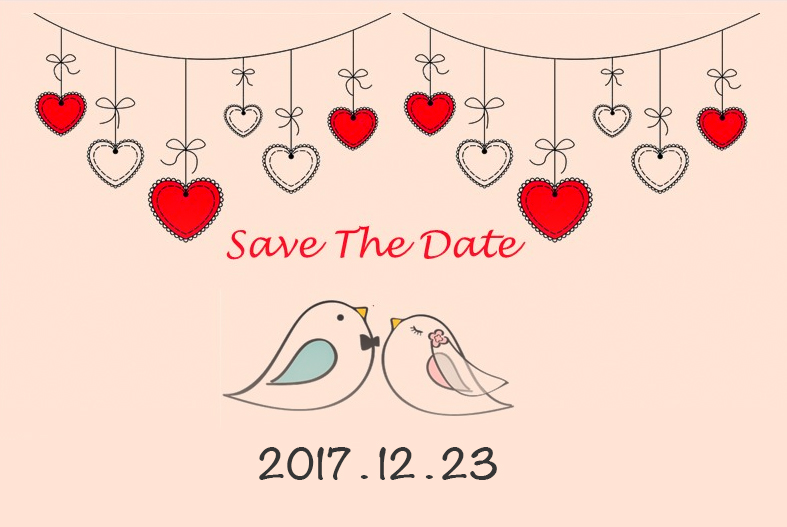
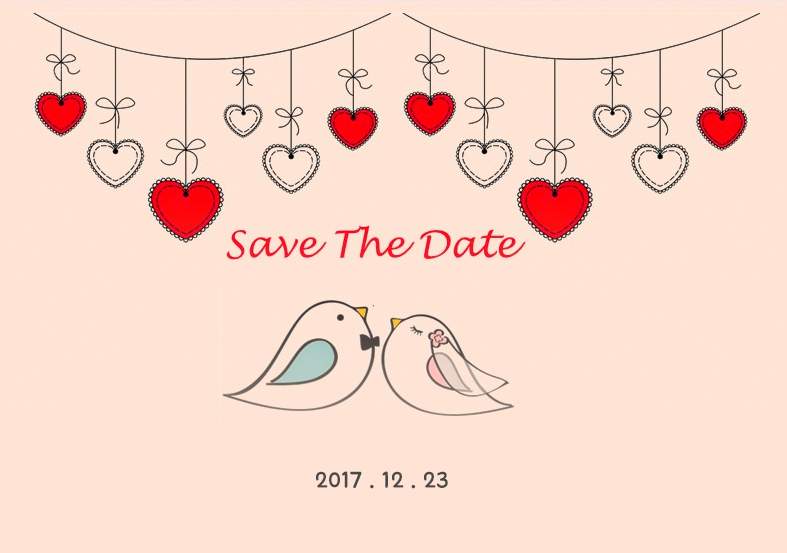
update

diff --git a/index.html b/index.html
@@ -28,8 +28,7 @@
 		<div id="heading" class="section">
 			<img src="images/invite.jpg" style="width: 100%;"/>
 			<div class="section-sm">
-				박규홍 신랑 &#x2665; 구수진 신부</br>
-				결혼을 축하해주세요.
+				박규홍 &#x2665; 구수진 결혼합니다.
 			</div>
 		</div>
 
@@ -74,10 +73,11 @@
 				<div class="invitation-context">
 					<p>받는 기쁨보다 주는 기쁨이 크다는 것을</p>
 					<p>알게 해준 사람을 만나 결혼합니다.</p>
-					<p>참석해 주셔서 축복해 주시면 감사하겠습니다.</p>
+					<p>저희 두사람의 새로운 출발을</p>
+					<p>축복해 주시면 감사하겠습니다.</p>
 				</div>
 				<div class="invitation-name">
-					<p>박정섭 &#183; 조영재의 차남 박규홍</p>
+					<p>박정섭 &#183; 조영재의 장남 박규홍</p>
 					<p>구탁본 &#183; 최은희의 차녀 구수진</p>
 				</div>
 			</div>
@@ -122,5 +122,6 @@
 		</script>
 		<script src="https://cdnjs.cloudflare.com/ajax/libs/popper.js/1.12.3/umd/popper.min.js" integrity="sha384-vFJXuSJphROIrBnz7yo7oB41mKfc8JzQZiCq4NCceLEaO4IHwicKwpJf9c9IpFgh" crossorigin="anonymous"></script>
 		<script src="https://maxcdn.bootstrapcdn.com/bootstrap/4.0.0-beta.2/js/bootstrap.min.js" integrity="sha384-alpBpkh1PFOepccYVYDB4do5UnbKysX5WZXm3XxPqe5iKTfUKjNkCk9SaVuEZflJ" crossorigin="anonymous"></script>
+		<script src="//developers.kakao.com/sdk/js/kakao.min.js"></script>
 	</body>
 </html>

diff --git a/css/index.css b/css/index.css
@@ -1,3 +1,5 @@
+
+
 body {
 	text-align: center;
 	margin-bottom: 100px;
@@ -27,8 +29,17 @@ h3 {
 	font-size: 1rem;
 }
 
+/* nav header */
+#header {
+	position: fixed;
+	width: 100%;
+	z-index: 1;
+	height: 56px;
+}
+
 #heading {
 	padding: 0;
+	padding-top: 56px;
 }
 
 #gallery {
